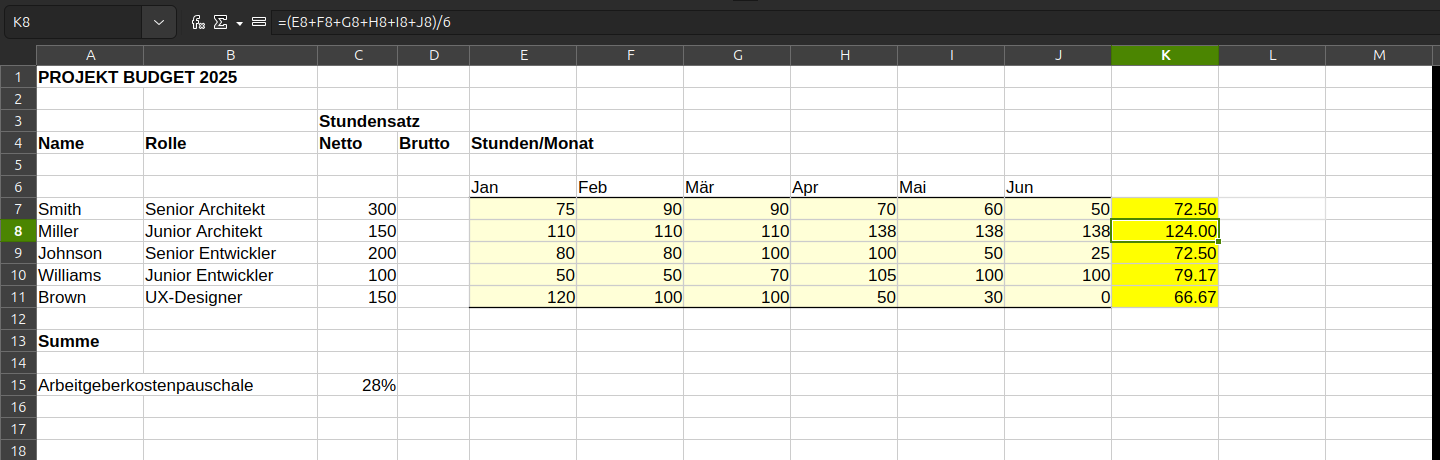
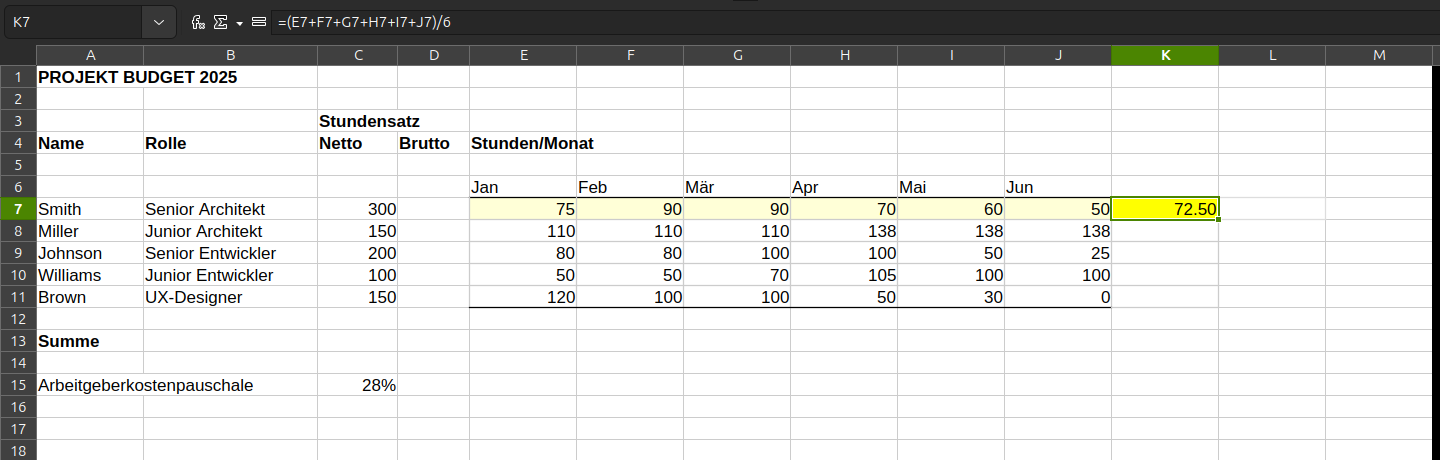
update tasks: 6 tasks per group

diff --git a/src/app/shared/service/tasks_definiton.ts b/src/app/shared/service/tasks_definiton.ts
@@ -29,7 +29,7 @@ export const tasks_definition = [
     german_hint: "Datenbearbeitung",
     english_hint: "Data Edit",
     english_description: "Enter the value 100 into cell F9.",
-    group: Group.P,
+    group: Group.A,
     picture_file_name: "task_1.png",
   },
   {
@@ -39,7 +39,7 @@ export const tasks_definition = [
     english_description: "Delete the contents of cell E8.",
     german_hint: "Datenbearbeitung",
     english_hint: "Data Edit",
-    group: Group.P,
+    group: Group.A,
     picture_file_name: "task_2.png",
   },
   {
@@ -71,16 +71,16 @@ export const tasks_definition = [
   //   english_hint: "Structure Change: something new included",
   //   group: Group.A
   // },
-    {//A instead of task 5
-        german_title: "Zentrieren von Zellen",
-        english_title: "Centering cells",
-        german_description: "Zentrieren Sie die Werte A7:A11 sowie B7:B11.",
-        english_description: "Center the values in A7:A11 as well as B7:B11.",
-        german_hint: "Format",
-        english_hint: "Formatting",
-        group: Group.A,
-        picture_file_name: "task_5.png",
-    },
+  //   {//A instead of task 5
+  //       german_title: "Zentrieren von Zellen",
+  //       english_title: "Centering cells",
+  //       german_description: "Zentrieren Sie die Werte A7:A11 sowie B7:B11.",
+  //       english_description: "Center the values in A7:A11 as well as B7:B11.",
+  //       german_hint: "Format",
+  //       english_hint: "Formatting",
+  //       group: Group.A,
+  //       picture_file_name: "task_A.png",
+  //   },
 
   {
     german_title: "Spalte entfernen",
@@ -170,7 +170,7 @@ export const tasks_definition = [
     english_description: "Create a bar chart from the value in cells C7-C11.",
     german_hint: "Veranschaulichung",
     english_hint: "Visualization",
-    group: Group.B,
+    group: Group.C,
     picture_file_name: "task_13.png",
   },
   {

diff --git a/src/app/component/welcome/welcome.component.html b/src/app/component/welcome/welcome.component.html
@@ -30,17 +30,16 @@
 
 
     <button mat-raised-button color="primary" (click)="clickChangeLanguage()">
-                    {{ chosenLanguage === Language.GERMAN ? "Switch to English" : "Switch to German" }}
+                    {{ chosenLanguage === Language.GERMAN ? "Nach Englisch wechseln" : "Switch to German" }}
                 </button>
-    <span style="display: inline-block; width: 3rem;"></span>
+    <span style="display: inline-block; width: 5rem;"></span>
     <!-- go to consent form -->
-    <button mat-raised-button color="primary" style="font-size: 1.1rem; padding: 0.6rem 2rem;" (click)="showIntroPage = false">
+    <button mat-raised-button color="primary" (click)="showIntroPage = false">
         {{ chosenLanguage === Language.GERMAN ? "Weiter zur Einwilligungserklärung" : "Continue to Consent Form" }}
     </button>
 </div>
 
 <!-- Consent form -->
-<!--TODO update text -->
 <div *ngIf="!showIntroPage">
     <!--Header Section-->
     <div style="background-color: lightblue">
@@ -62,7 +61,7 @@
 
             <mat-grid-tile
                 ><button mat-raised-button color="primary" (click)="clickChangeLanguage()">
-                    {{ chosenLanguage === Language.GERMAN ? "Switch to English" : "Switch to German" }}
+                    {{ chosenLanguage === Language.GERMAN ? "Nach Englisch wechseln" : "Switch to German" }}
                 </button>
             </mat-grid-tile>
             <mat-grid-tile> </mat-grid-tile>

diff --git a/src/app/component/sketch/sketch.component.ts b/src/app/component/sketch/sketch.component.ts
@@ -907,7 +907,7 @@ async saveAllSheetScreenshots(baseFileName: string) {
     try {
         // Use Promise.all to save screenshots concurrently
         await Promise.all([
-            this.saveSheetScreenshot('sheet1', baseFileName),//TODO verzerrtes Bild
+            this.saveSheetScreenshot('sheet1', baseFileName),
             this.saveSheetScreenshot('sheet2', baseFileName)
         ]);
         
